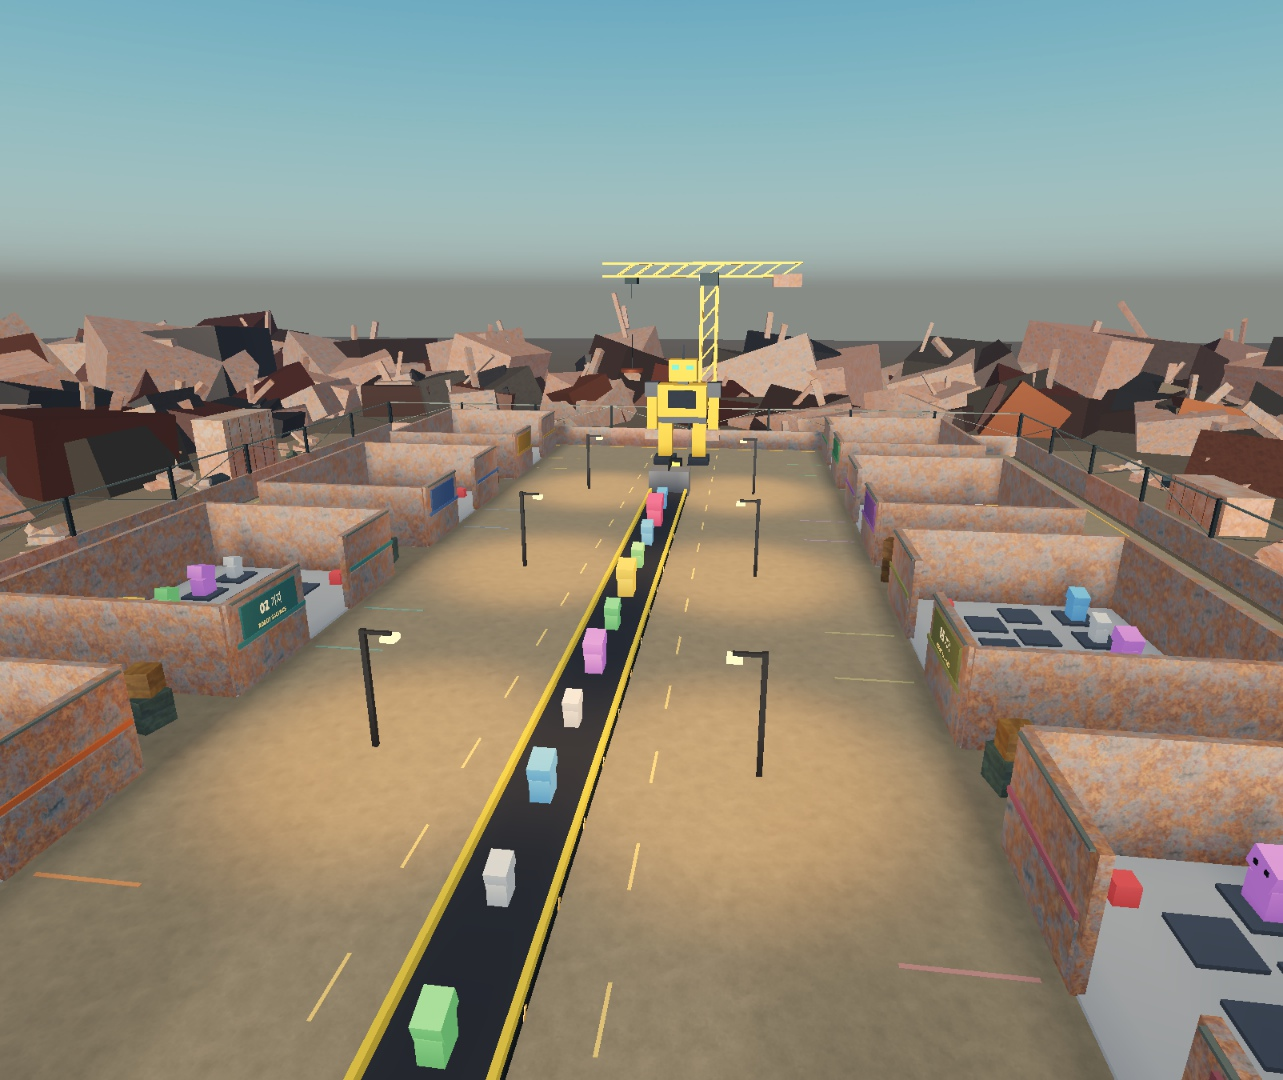
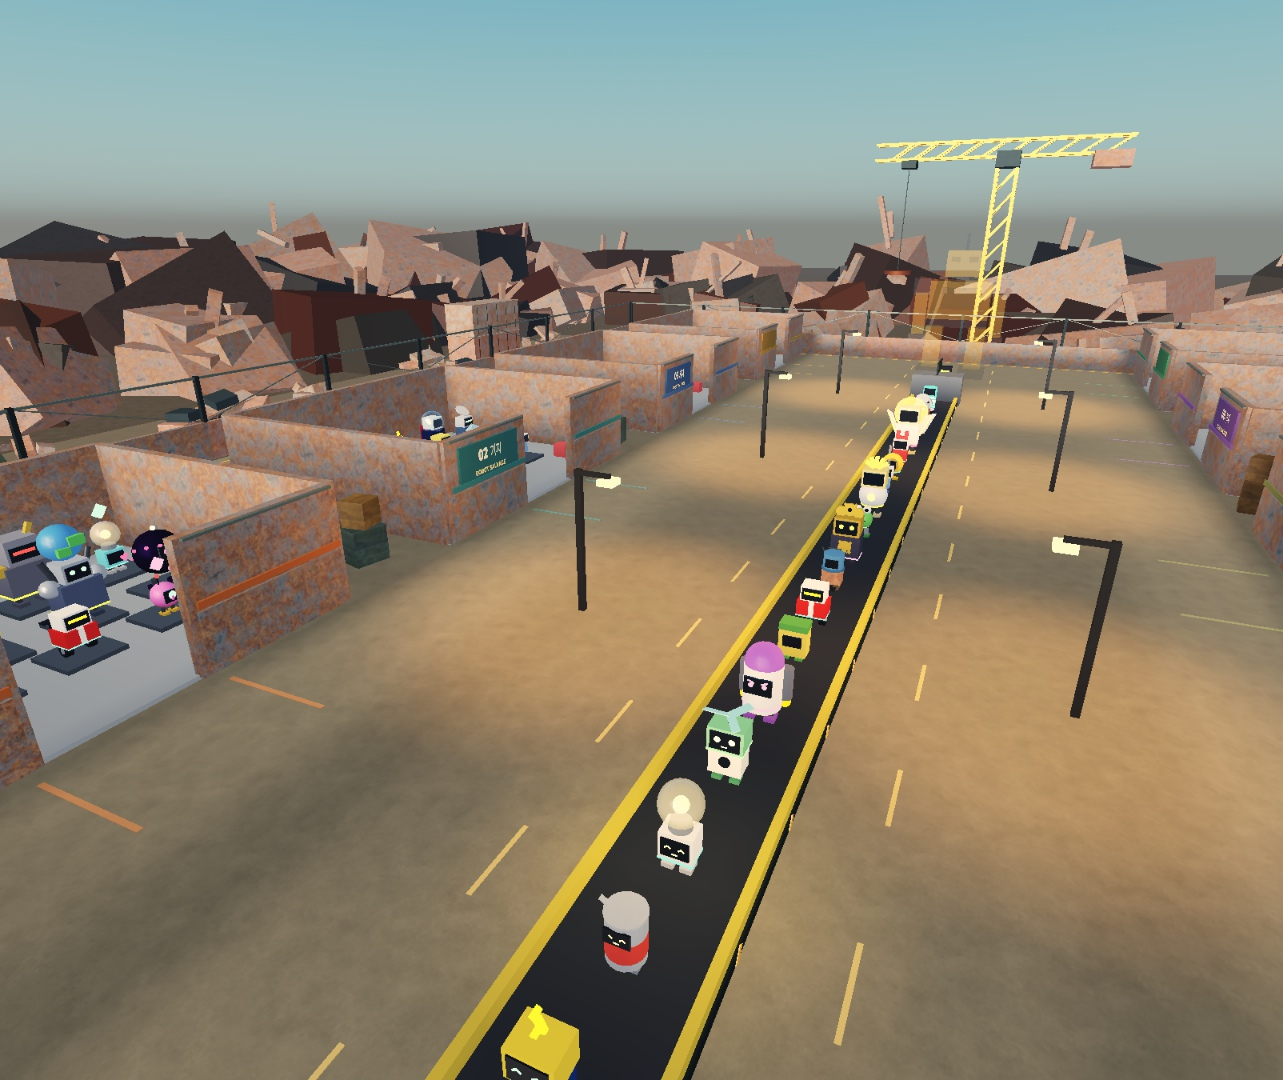
[Claude] 썸네일을 새 로봇으로 다시 만들고 개발자 상품 설명 정리
- docs/thumbnails 1~3번: Edit에 새 로봇을 임시로 세워 찍은 장면으로 교체(임시 모형·숨긴 전광판은 되돌림).
- 문구: 로봇 33종, 환생 변종.
- LAUNCH.md §6: EMP 5개·즉시 방어막·희귀 로봇 비 설명(한/영), 점검표 갱신.

diff --git a/tools/thumbnails.html b/tools/thumbnails.html
@@ -13,9 +13,9 @@
 // 썸네일 1920×1080: Studio 캡처를 가로 16:9로 잘라 키우고, 짧은 문구를 얹는다
 const W = 1920, H = 1080;
 const SHOTS = [
-  { file: "thumb-1-overview", src: "1.jpg", focus: 0.32, title: "로봇 고물상 타이쿤", sub: "로봇을 사고 · 지키고 · 훔쳐라!" },
-  { file: "thumb-2-belt", src: "2.jpg", focus: 0.42, title: "컨베이어 위 로봇을 먼저 사라!", sub: "희귀·전설·신화 로봇 18종" },
-  { file: "thumb-3-base", src: "3.jpg", focus: 0.38, title: "내 기지를 로봇으로 가득!", sub: "방어막 · 경보기 · 레이저 울타리" },
+  { file: "thumb-1-overview", src: "1.jpg", focus: 0.30, title: "로봇 고물상 타이쿤", sub: "로봇을 사고 · 지키고 · 훔쳐라!" },
+  { file: "thumb-2-belt", src: "2.jpg", focus: 0.42, title: "컨베이어 위 로봇을 먼저 사라!", sub: "개성 만점 로봇 33종 · 희귀부터 신화까지" },
+  { file: "thumb-3-base", src: "3.jpg", focus: 0.30, title: "내 기지를 로봇으로 가득!", sub: "환생하면 금색 · 다이아 · 무지개 변종!" },
   { file: "thumb-4-giant", src: "4.jpg", focus: 0.30, title: "다 같이 거대 로봇 완성!", sub: "서버 전체 수입 x2" },
 ];
 

diff --git a/NOTES.md b/NOTES.md
@@ -88,3 +88,4 @@
 - 2026-11-19 Claude Code: 로봇 33종을 이름에 맞는 생김새·표정·고유 색으로 새로 디자인, 공용 모듈 JunkyardRobotModel로 벨트·받침대·들고 가기·CCTV가 같은 모양(HANDOFF B-45).
 - 2026-11-19 Claude Code: 로봇 눈 깜빡임, 선풍기·접시·후광·궤도 고리 회전(내 화면에서만, HANDOFF B-46).
 - 2026-11-19 Claude Code: 변종(금색·다이아·무지개) 로봇 머리 위에 도는 보석 표시(HANDOFF B-47).
+- 2026-11-19 Claude Code: 썸네일 1~3번을 새 로봇으로 다시 찍어 만듦, LAUNCH.md에 개발자 상품 3개 설명(한/영) 추가.
